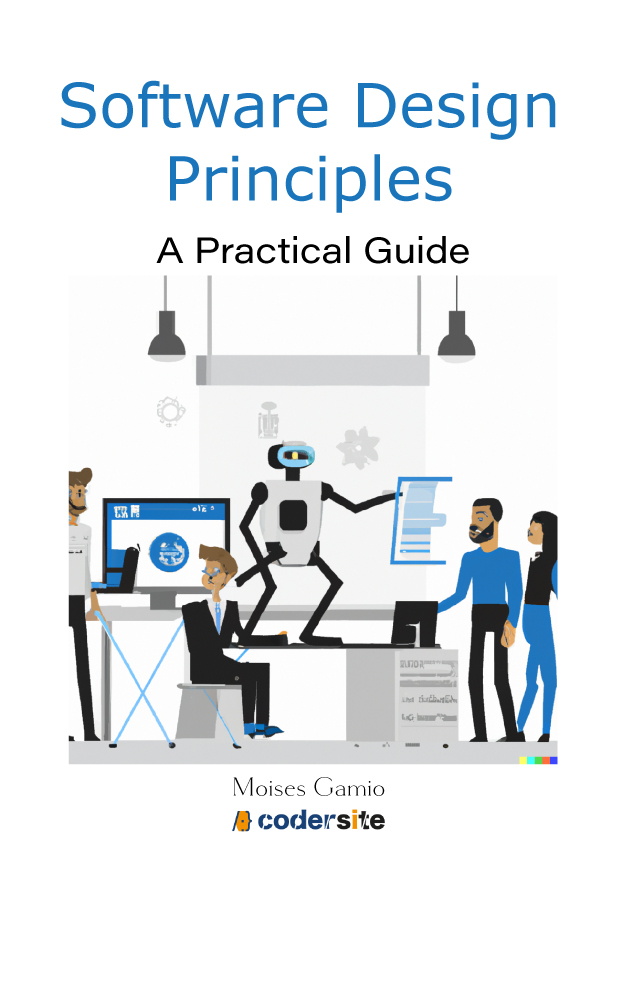
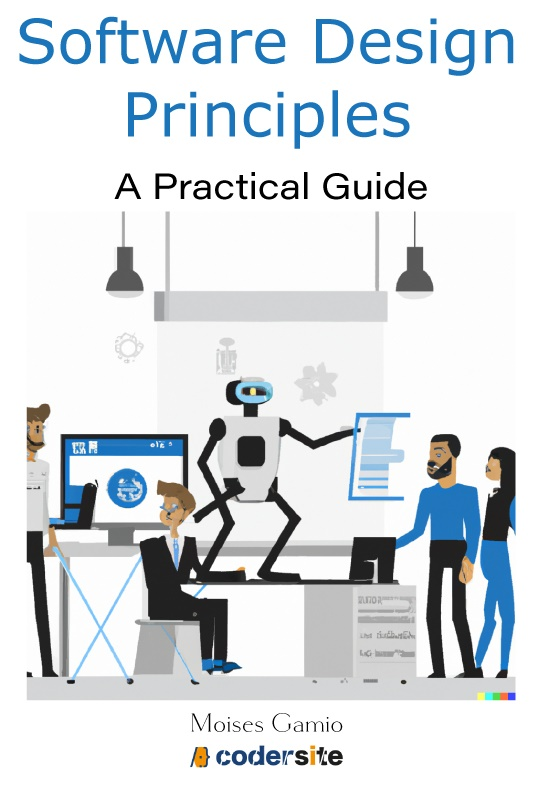
about
resize book image

diff --git a/_site/assets/js/lunrsearchengine.js b/_site/assets/js/lunrsearchengine.js
@@ -8,7 +8,7 @@ var documents = [{
     "id": 1,
     "url": "http://localhost:4000/about",
     "title": "About me",
-    "body": "    I was born in Lima, Peru, where I studied for 5 years and obtained a degree in System Engineering. I have been working 20 years as a Software Engineer for several companies from different economic sectors such as Government, Financial, Industrial, Educative, Consulting, Retail, and Research.      A little more. . . :   I have been programming in several languages such as Java, C, Cobol, C#, Visual Basic, PHP, Prolog, Python, PL/SQL and JScript. My tasks have been related to Software Development, stages of Analysis, Design, Testing, and Deployment.   During 8 years, I worked as a System Analyst for the Bank Sector. Since 2014, I am working as a Software Engineer in a B2B company in Berlin, Germany.   This is my blog site to share my knowledge and experience. At the moment, I am passionate about the following things:      Clean Code   Spring Framework   Web APIs   Automated testing   Software Design   Software Architecture   Distributed Systems   Data Structure and Algorithms   Learning new technologies  	       	 Buy me a coffee   Thank you for your support! Your donation helps me to maintain and improve codersite.                      	 A fun t-shirt for every front-end, backend or developers who loves programming.       	 I want this!    Follow me on: "
+    "body": "    I was born in Lima, Peru, where I studied for 5 years and obtained a degree in System Engineering. I have been working 20 years as a Software Engineer for several companies from different economic sectors such as Government, Financial, Industrial, Educative, Consulting, Retail, and Research.      A little more. . . :   I have been programming in several languages such as Java, C, Cobol, C#, Visual Basic, PHP, Prolog, Python, PL/SQL and JScript. My tasks have been related to Software Development, stages of Analysis, Design, Testing, and Deployment.   During 8 years, I worked as a System Analyst for the Bank Sector. Since 2014, I am working as a Software Engineer in a B2B company in Berlin, Germany.   This is my blog site to share my knowledge and experience. At the moment, I am passionate about the following things:      Clean Code   Spring Framework   RESTful Web Services   Automated testing   Software Design   Software Architecture   Distributed Systems   Data Structure and Algorithms	 Object-Oriented Programming   Learning new technologies  	       	 Buy me a coffee   Thank you for your support! Your donation helps me to maintain and improve codersite.                         This practical guide aims to make you a better software designer within the object-oriented paradigm.       	 EUR 5. 00	    	 A fun t-shirt for every front-end, backend or developers who loves programming.       	 I want this!    Follow me on: "
     }, {
     "id": 2,
     "url": "http://localhost:4000/categories",

diff --git a/_site/about.html b/_site/about.html
@@ -153,12 +153,13 @@
     <ul>
       <li>Clean Code</li>
       <li>Spring Framework</li>
-      <li>Web APIs</li>
+      <li>RESTful Web Services</li>
       <li>Automated testing</li>
       <li>Software Design</li>
       <li>Software Architecture</li>
       <li>Distributed Systems</li>
       <li>Data Structure and Algorithms</li>
+	  <li>Object-Oriented Programming</li>
       <li>Learning new technologies</li>
     </ul>
 	
@@ -178,6 +179,14 @@
         <img alt="" border="0" src="https://www.paypal.com/en_DE/i/scr/pixel.gif" width="1" height="1" />
       </form>
 
+      <br />
+
+      <p>This practical guide aims to make you a better software designer within the object-oriented paradigm.</p>
+
+      <a href="https://amzn.to/3AucVBA" target="_blank"><img class="card-img-top" alt="design" border="0" src="../assets/images/SoftwareDesignPortadaJPG.jpg" /></a>
+      
+	  <center><a target="_blank" href="https://amzn.to/3AucVBA" class="btn btn-danger">EUR 5.00</a></center>
+	  
       <br />
 
 	  <p>A fun t-shirt for every front-end, backend or developers who loves programming.</p>

diff --git a/_pages/about.md b/_pages/about.md
@@ -25,12 +25,13 @@ comments: false
     <ul>
       <li>Clean Code</li>
       <li>Spring Framework</li>
-      <li>Web APIs</li>
+      <li>RESTful Web Services</li>
       <li>Automated testing</li>
       <li>Software Design</li>
       <li>Software Architecture</li>
       <li>Distributed Systems</li>
       <li>Data Structure and Algorithms</li>
+	  <li>Object-Oriented Programming</li>
       <li>Learning new technologies</li>
     </ul>
 	
@@ -50,6 +51,14 @@ comments: false
         <img alt="" border="0" src="https://www.paypal.com/en_DE/i/scr/pixel.gif" width="1" height="1" />
       </form>
 
+      <br/>
+
+      <p>This practical guide aims to make you a better software designer within the object-oriented paradigm.</p>
+
+      <a href="https://amzn.to/3AucVBA" target="_blank"><img class="card-img-top" alt="design" border="0" src="../assets/images/SoftwareDesignPortadaJPG.jpg" ></a>
+      
+	  <center><a target="_blank" href="https://amzn.to/3AucVBA" class="btn btn-danger">EUR 5.00</a></center>
+	  
       <br/>
 
 	  <p>A fun t-shirt for every front-end, backend or developers who loves programming.</p>
